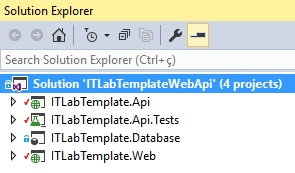
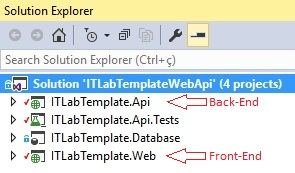
Inclusão de informações referente ao modo Protótipo x Desenvolvimento

Changed region(s): [[0.5492, 0.5491, 0.8847, 0.6358], [0.5492, 0.8382, 0.8847, 0.9249], [0.6102, 0.9249, 0.6407, 0.9538]]

diff --git a/Setup-New-Project.md b/Setup-New-Project.md
@@ -12,13 +12,13 @@
 4. Execute o comando **SetupSolution.exe**.
     <br>Ao executar este comando iniciará um pequeno wizard para te auxiliar na criação, a 1ª pergunta será o nome do seu novo projeto, defina o nome do seu novo projeto evitando espaços e caracteres especiais.
     <br>Ao término da execução deste wizard, uma cópia do código-fonte do template será criada na pasta **C:\TEMP** em uma subpasta com o nome que você definiu no wizard.
-<img src="https://github.com/ITLab-Academy/Template-Web-ASPNET/blob/master/images/Setup-New-Project.png">
+<img src="images/Setup-New-Project.png">
 
 Se preferir, agora você já pode incluir/mover este código-fonte gerado (na pasta **C:\TEMP**) para a pasta\repositório do seu novo projeto no TFS.
 
 ## Entenda a solução criada
 Antes de continuarmos, vamos entender como a solução está estruturada, na pasta criada com o código-fonte do seu novo projeto, temos a solução (.sln) com os seguintes projetos:
-<br><img src="https://github.com/ITLab-Academy/Template-Web-ASPNET/blob/master/images/template-solution.jpg">
+<br><img src="images/template-solution.jpg">
 <br>
 1. **\<nome-projeto>.Api**: Este projeto contém o código .NET (C#) das APIs (Back-End), é neste projeto que se implementa as regras de negócio e persistência no banco de dados.
 
@@ -37,21 +37,68 @@ Da forma como a solução está estruturada, temos dois possíveis cenários par
 **Cenário A**: Back-End [(API)](https://pt.wikipedia.org/wiki/Interface_de_programa%C3%A7%C3%A3o_de_aplica%C3%A7%C3%B5es) e Front-End hospedado no mesmo endpoint (mesmo servidor/endereço de aplicação), exemplo:
 
 - Back-End e Front-End respondendo no mesmo endereço: http://app.itlab.com.br
+<br><img src="images/Solution-One-Layer.png">
 
 **Cenário B**: Back-End [(API)](https://pt.wikipedia.org/wiki/Interface_de_programa%C3%A7%C3%A3o_de_aplica%C3%A7%C3%B5es) hospedado em um endpoint diferente do Front-End (servidores/endereços de aplicação diferentes), sendo que o usuário sempre acessará a aplicação pelo endereço do Front-End, exemplo:
 
 - Back-End respondendo no endereço: http://backend.itlab.com.br
 - Front-End respondendo no endereço: http://app.itlab.com.br
+<br><img src="images/Solution-Two-Layers.png">
 
-**IMPORTANTE:** Por questões de segurança, é recomendado que o Back-End e Front-End, em ambiente de produção, respondam apenas pelo **https** e não pelo **http**.
+**IMPORTANTE:**
+1. Por padrão o template está configurado no Cenário B, ou seja, traz o **Front-End** e **Back-End** em dois end-points diferentes, sendo:
+    - **Front-End**: End-point http://localhost:8080
+    - **Back-End**: End-Point http://localhost:8081 
+2. Por questões de segurança, no **AMBIENTE DE PRODUÇÃO**, é recomendado que o Back-End e Front-End respondam apenas pelo **https** e não pelo **http**.
 
 ## Pacotes do NuGet
 Antes de mais nada, restaure os pacotes que o template utiliza através do NuGet, para isso, basta abrir a solução (.sln) no Visual Studio, clicar com o botão direito do mouse na solução e acionar o comando **Restore NuGet Packages** (se você der um **Build Solution** o Visual Studio também irá restaurar os pacotes).
 
-<img src="https://github.com/ITLab-Academy/Template-Web-ASPNET/blob/master/images/Restore-NuGet-Packages.png">
+<img src="images/Restore-NuGet-Packages.png">
 
-**ATENÇÃO:** Após restaurar os pacotes, feche a Solução/Visual Studio e abra novamente!
+**ATENÇÃO:** É recomendado que após restaurar os pacotes, feche-se a Solução/Visual Studio e abra novamente! (Thank you Microsoft!)
 
+## Modos: Protótipo x Desenvolvimento
+O template possui dois modos: **Protótipo (Prototype)** e **Desenvolvimento**:
+1. No modo Protótipo o **Front-End** fica desacoplado do **Back-End**, com isso temos maior agilidade na criação do protótipo onde todas as operações de persistência (inserir/alterar/excluir) são realizadas em memória, simulando a persistência, sem acionar as APIs do **Back-End** (e consequentemente sem acionar banco de dados), devemos usar este modo para construir o protótipo das telas.
+2. No modo Desenvolvimento o **Front-End** está acoplado ao **Back-End** (e consequentemente ao banco de dados), devemos usar este modo após termos o protótipo aprovado.
+
+O que determina se estamos executando no modo **Protótipo** ou **Desenvolvimento** é qual arquivo javascript **DE SERVIÇO** estamos utilizando. Os arquivos javascript de serviço são aqueles cujo nome possui a palavra `service`.
+
+Quando estiver referenciado o arquivo javascript sufixo `.prototype.js`, significa que está sendo executado no modo **Protótipo**, já, quando estiver referenciado o arquivo javascript sem o sufixo `.prototype.js`, significa que está sendo executado no modo **Desenvolvimento**. Exemplo: 
+- O arquivo `service.prototype.js` indica que é um arquivo utilizado apenas em **tempo de protótipo** (simula a persistência em memória, não aciona o Back-End).
+- O arquivo `service.js` indica que é um arquivo utilizado em **tempo de desenvolvimento** (aciona as APIs do Back-End).
+
+É possível que algumas funcionalidades sejam executadas em modo **Protótipo** e outras em modo **Desenvolvimento**, por exemplo, é possível que a funcionalidade Autenticação esteja sendo executada em modo **Protótipo** ao mesmo tempo que a funcionalidade de Cadastro de Paises esteja sendo executada em modo de **Desenvolvimento**.
+
+**IMPORTANTE:** Obviamente que, ao realizar a entrega final do sistema para o cliente, todas as funcionalidades devem estar sendo executadas em modo **Desenvolvimento**. :)
+
+Por padrão a solução vem configurada para o modo **Protótipo**, veja abaixo como configurar a solução para executar entre um modo e outro (alterações a serem realizadas no projeto **Front-End**)
+### Modo Protótipo (prototype)
+
+1. Arquivo `/index.html`, os arquivos abaixo devem ser referenciados aquele com sufixo `.service.prototype.js`:
+
+```html
+<script src="app/core/services/commons.service.prototype.js"></script> <!-- Serviços/Funções comuns a maioria das funcionalidades do sistema -->
+<script src="app/core/pages/notifications/list.service.prototype.js"></script> <!-- Serviço que prove as notificações ao usuário -->
+```
+2. Arquivo `/app/app.route.js`, neste arquivo você pode configurar o modo **Protótipo** x **Desenvolvimento** por funcionalidade, referenciando o arquivo com sufixo `.service.prototype.js` ou sem o sufixo `.service.prototype.js`, por exemplo, o no trecho abaixo, responsável pela tela de edição de usuários, estamos utilizando no modo **Protótipo**: 
+```javascript 
+files: [
+    'app/core/pages/dataVisibility/crud.service.prototype.js',  //COM o sufixo .service.prototype.js
+    'app/core/pages/security/user/service.prototype.js',        //COM o sufixo .service.prototype.js
+    'app/core/pages/security/user/edit.controller.js',
+]
+```
+Já no trecho abaixo, responsável pelo cadastro de novos usuários, estamos utilizando no modo **Desenvolvimento**:
+```javascript
+files: [
+    'app/core/pages/dataVisibility/crud.service.js',    //SEM o sufixo .service.prototype.js
+    'app/core/pages/generalSettings/edit.service.js',   //SEM o sufixo .service.prototype.js
+    'app/core/pages/security/user/service.js',          //SEM o sufixo .service.prototype.js
+    'app/core/pages/security/user/new.controller.js',
+]
+```
 
 ## Setup do Banco de Dados
 ### Se você não tem um banco de dados criado (texto em construção)

diff --git a/README.md b/README.md
@@ -24,7 +24,7 @@ Sempre utilize a versão da **Branch Trunk**, ela é a última versão estável!
 
 Neste repositório você verá duas pastas, conforme abaixo:
 * **ITLabTemplateApi**: Pasta que armazena o código-fonte do template (é este que você vai utilizar para criar novas aplicações).
-* **TemplateInspiniaOriginal**: Pasta que armazena o código-fonte original do template HTML do INSPINIA, template este utilizado como base para o template ASP NET da IT Lab (você utilizará este apenas como referência para extrair algum componente HTML que ainda não esteja presente no Template ASP NET IT Lab).
+* **TemplateInspiniaOriginal**: Pasta que armazena o código-fonte original do template HTML do INSPINIA, template este utilizado como base para o template ASP NET da IT Lab (você utilizará este apenas como referência para extrair algum componente HTML que ainda não esteja presente no Template ASP NET IT Lab). O template Web ASP NET IT Lab foi construído em cima da **versão 2.2 do Template INSPINIA**.
 
 # Setup de um novo projeto
 Para criar um novo projeto baseado no template, siga os passos indicados no guia clicando [aqui](Setup-New-Project.md).
